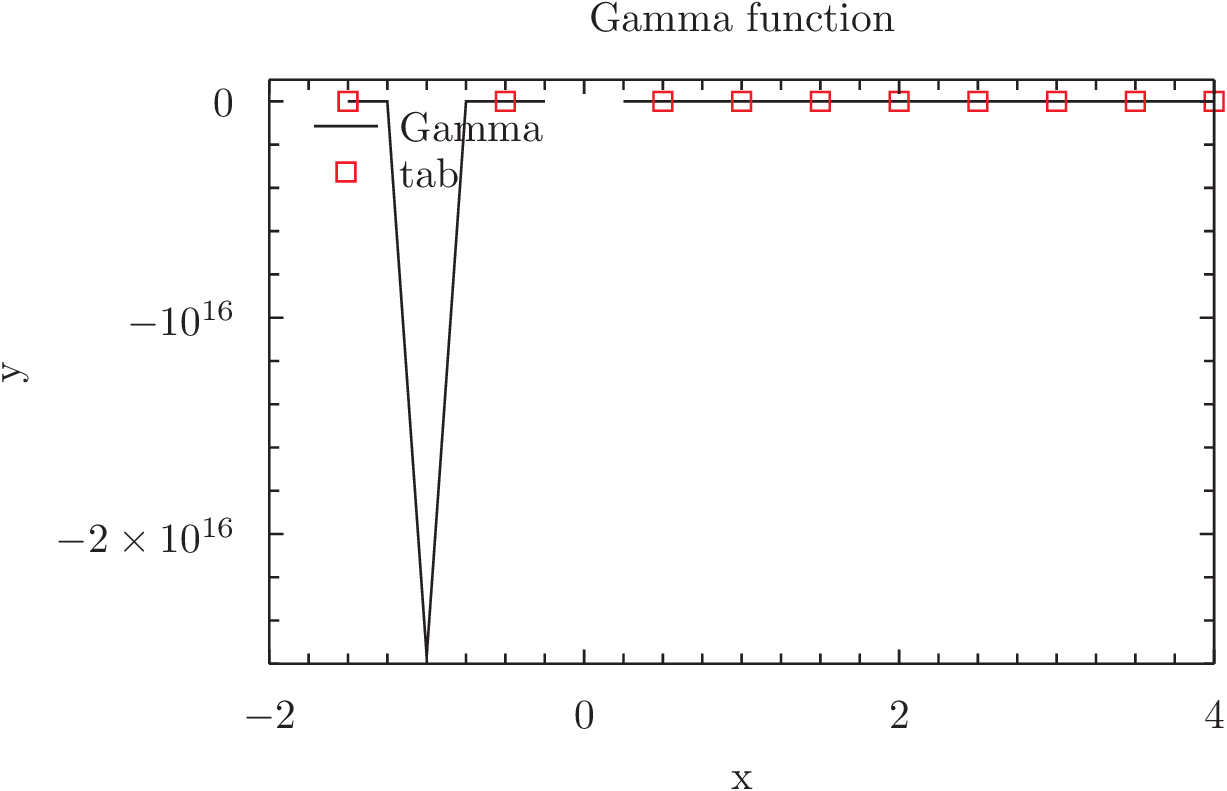
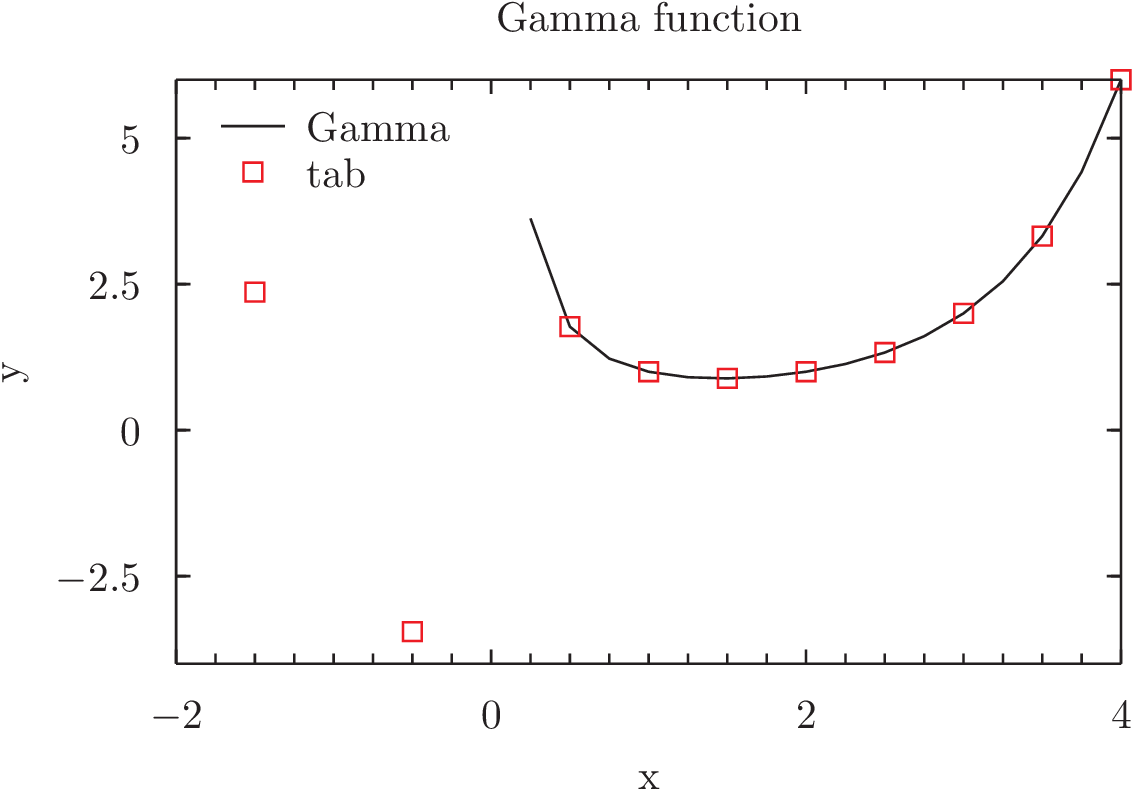
Plots gamma function for positive x.

diff --git a/homeworks/plots/PartB/main.cs b/homeworks/plots/PartB/main.cs
@@ -13,7 +13,7 @@ class main{
 	}
 
 	static public void Main(){
-		for(double x=-1.5;x<=4; x+=1.0/4)
+		for(double x=0;x<=4; x+=1.0/4)
 			WriteLine($"{x} {gamma(x)}");
 	}
 
